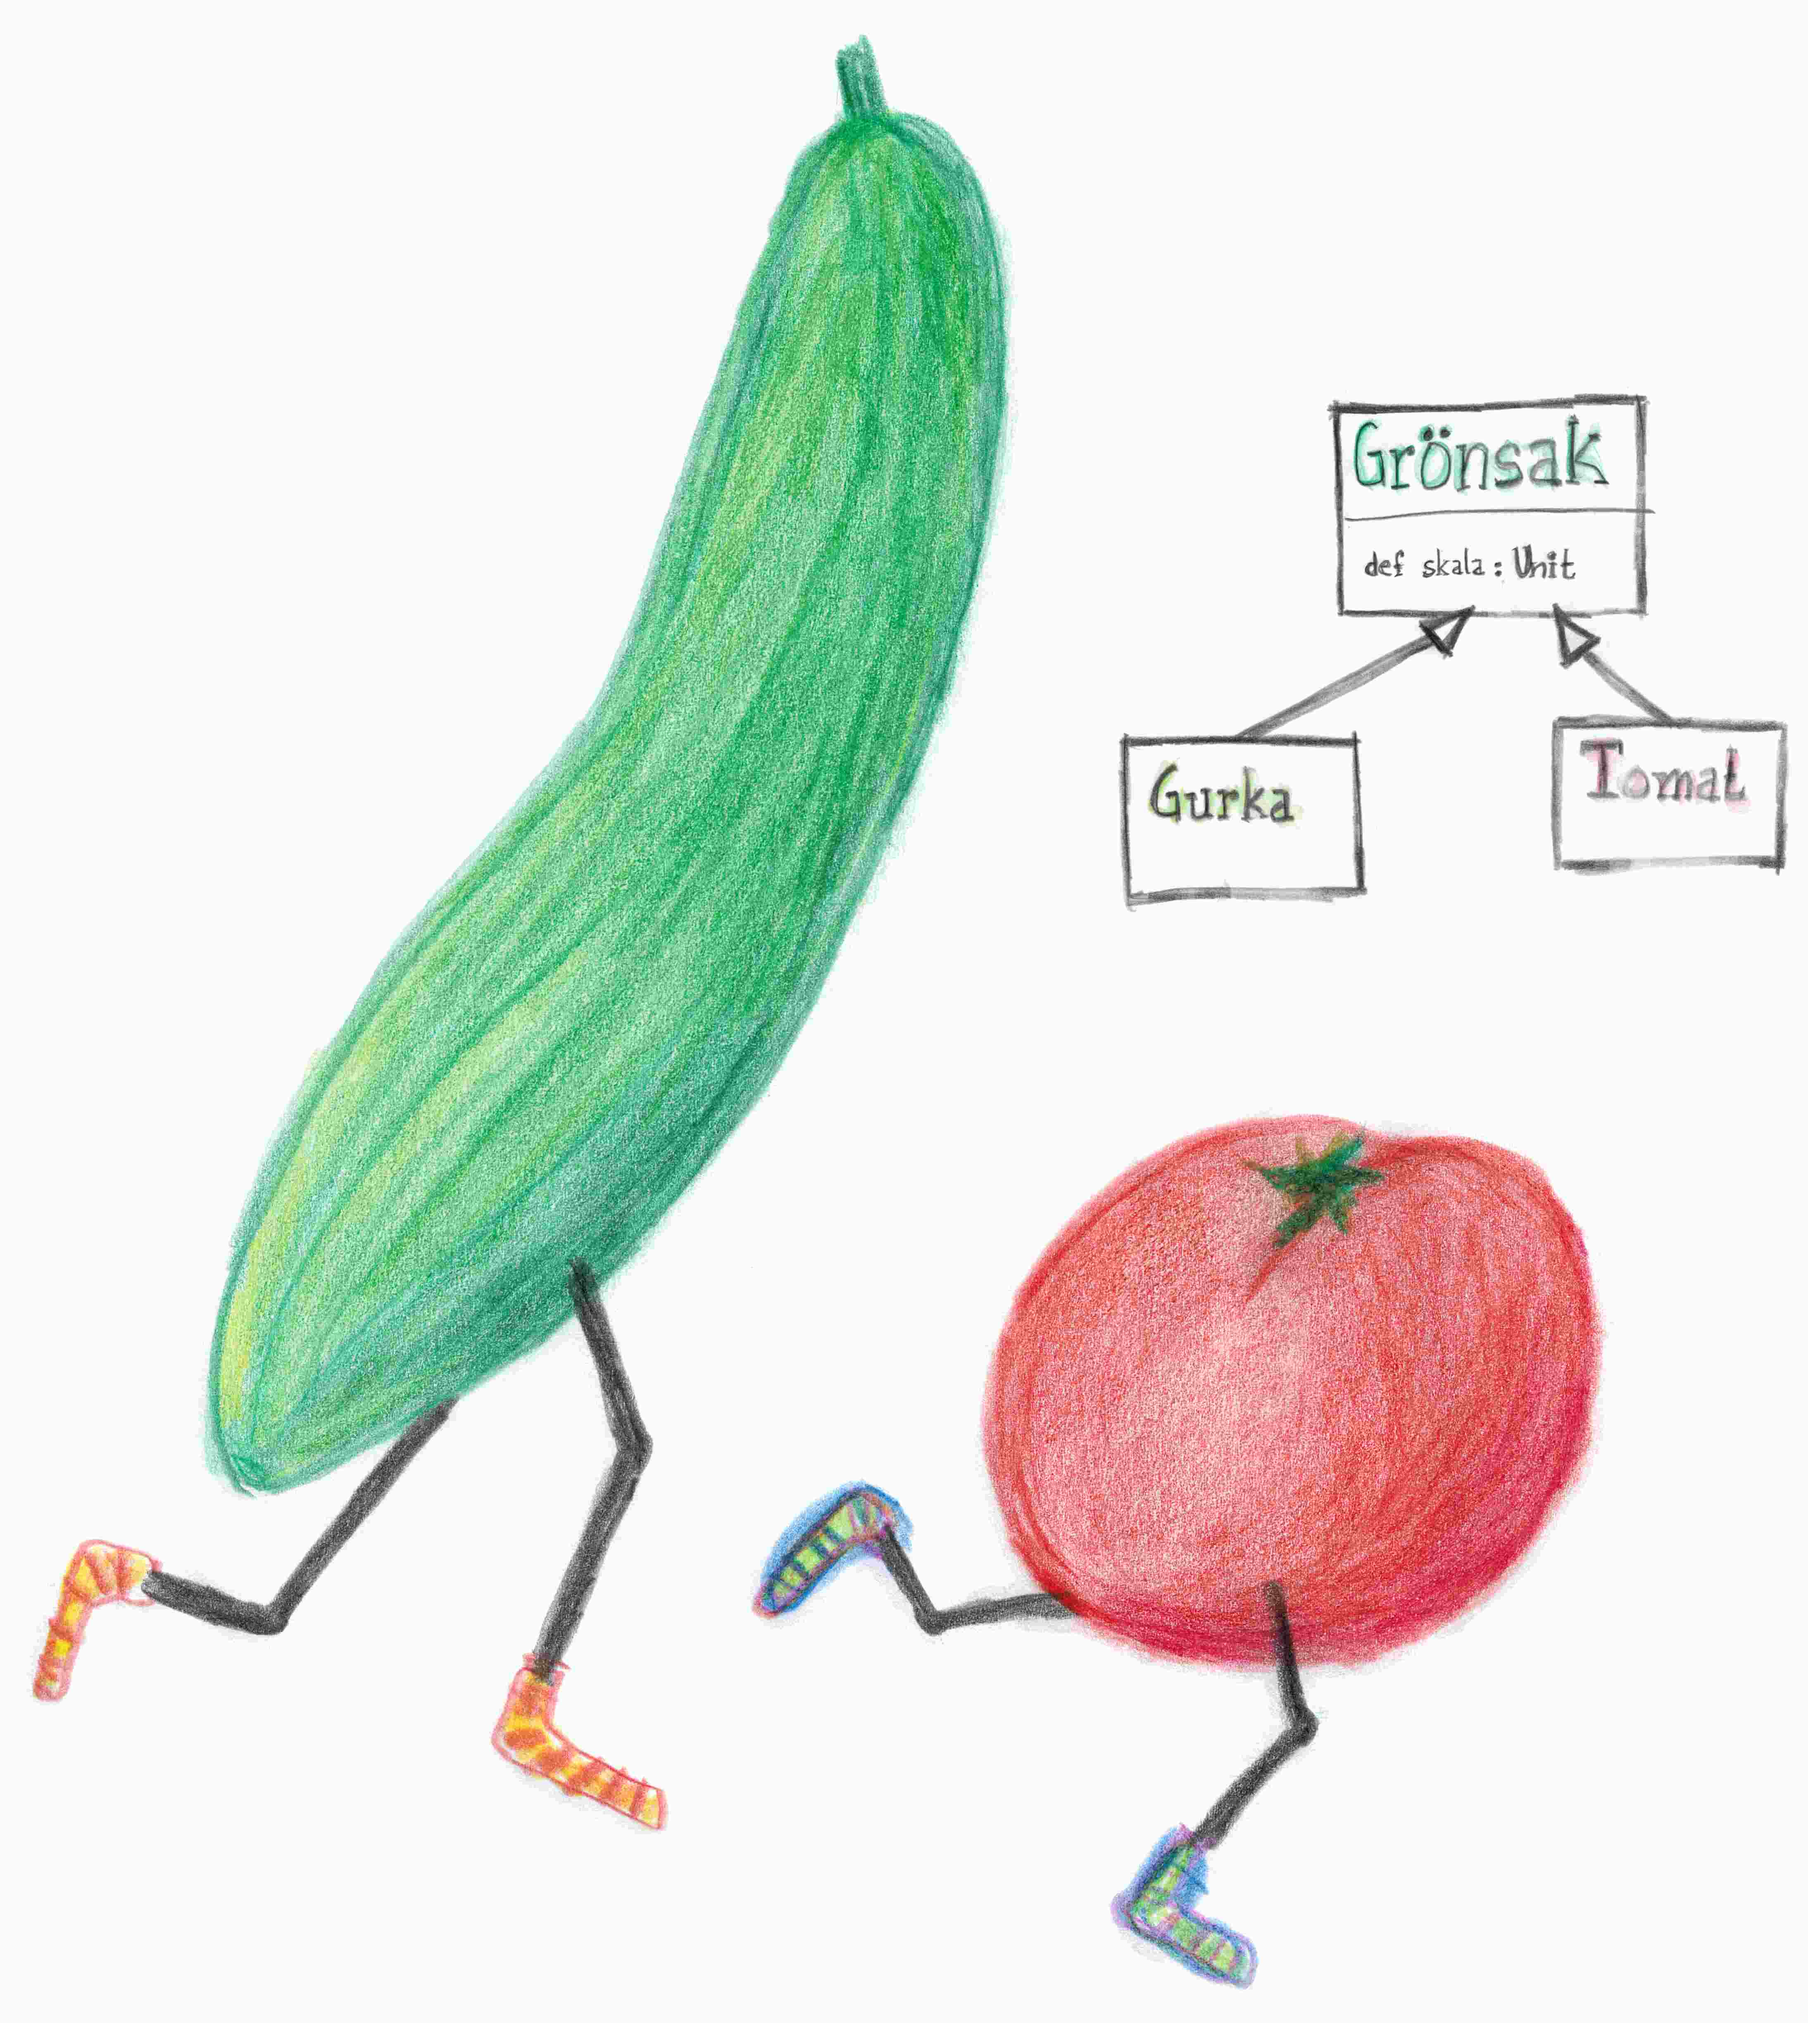
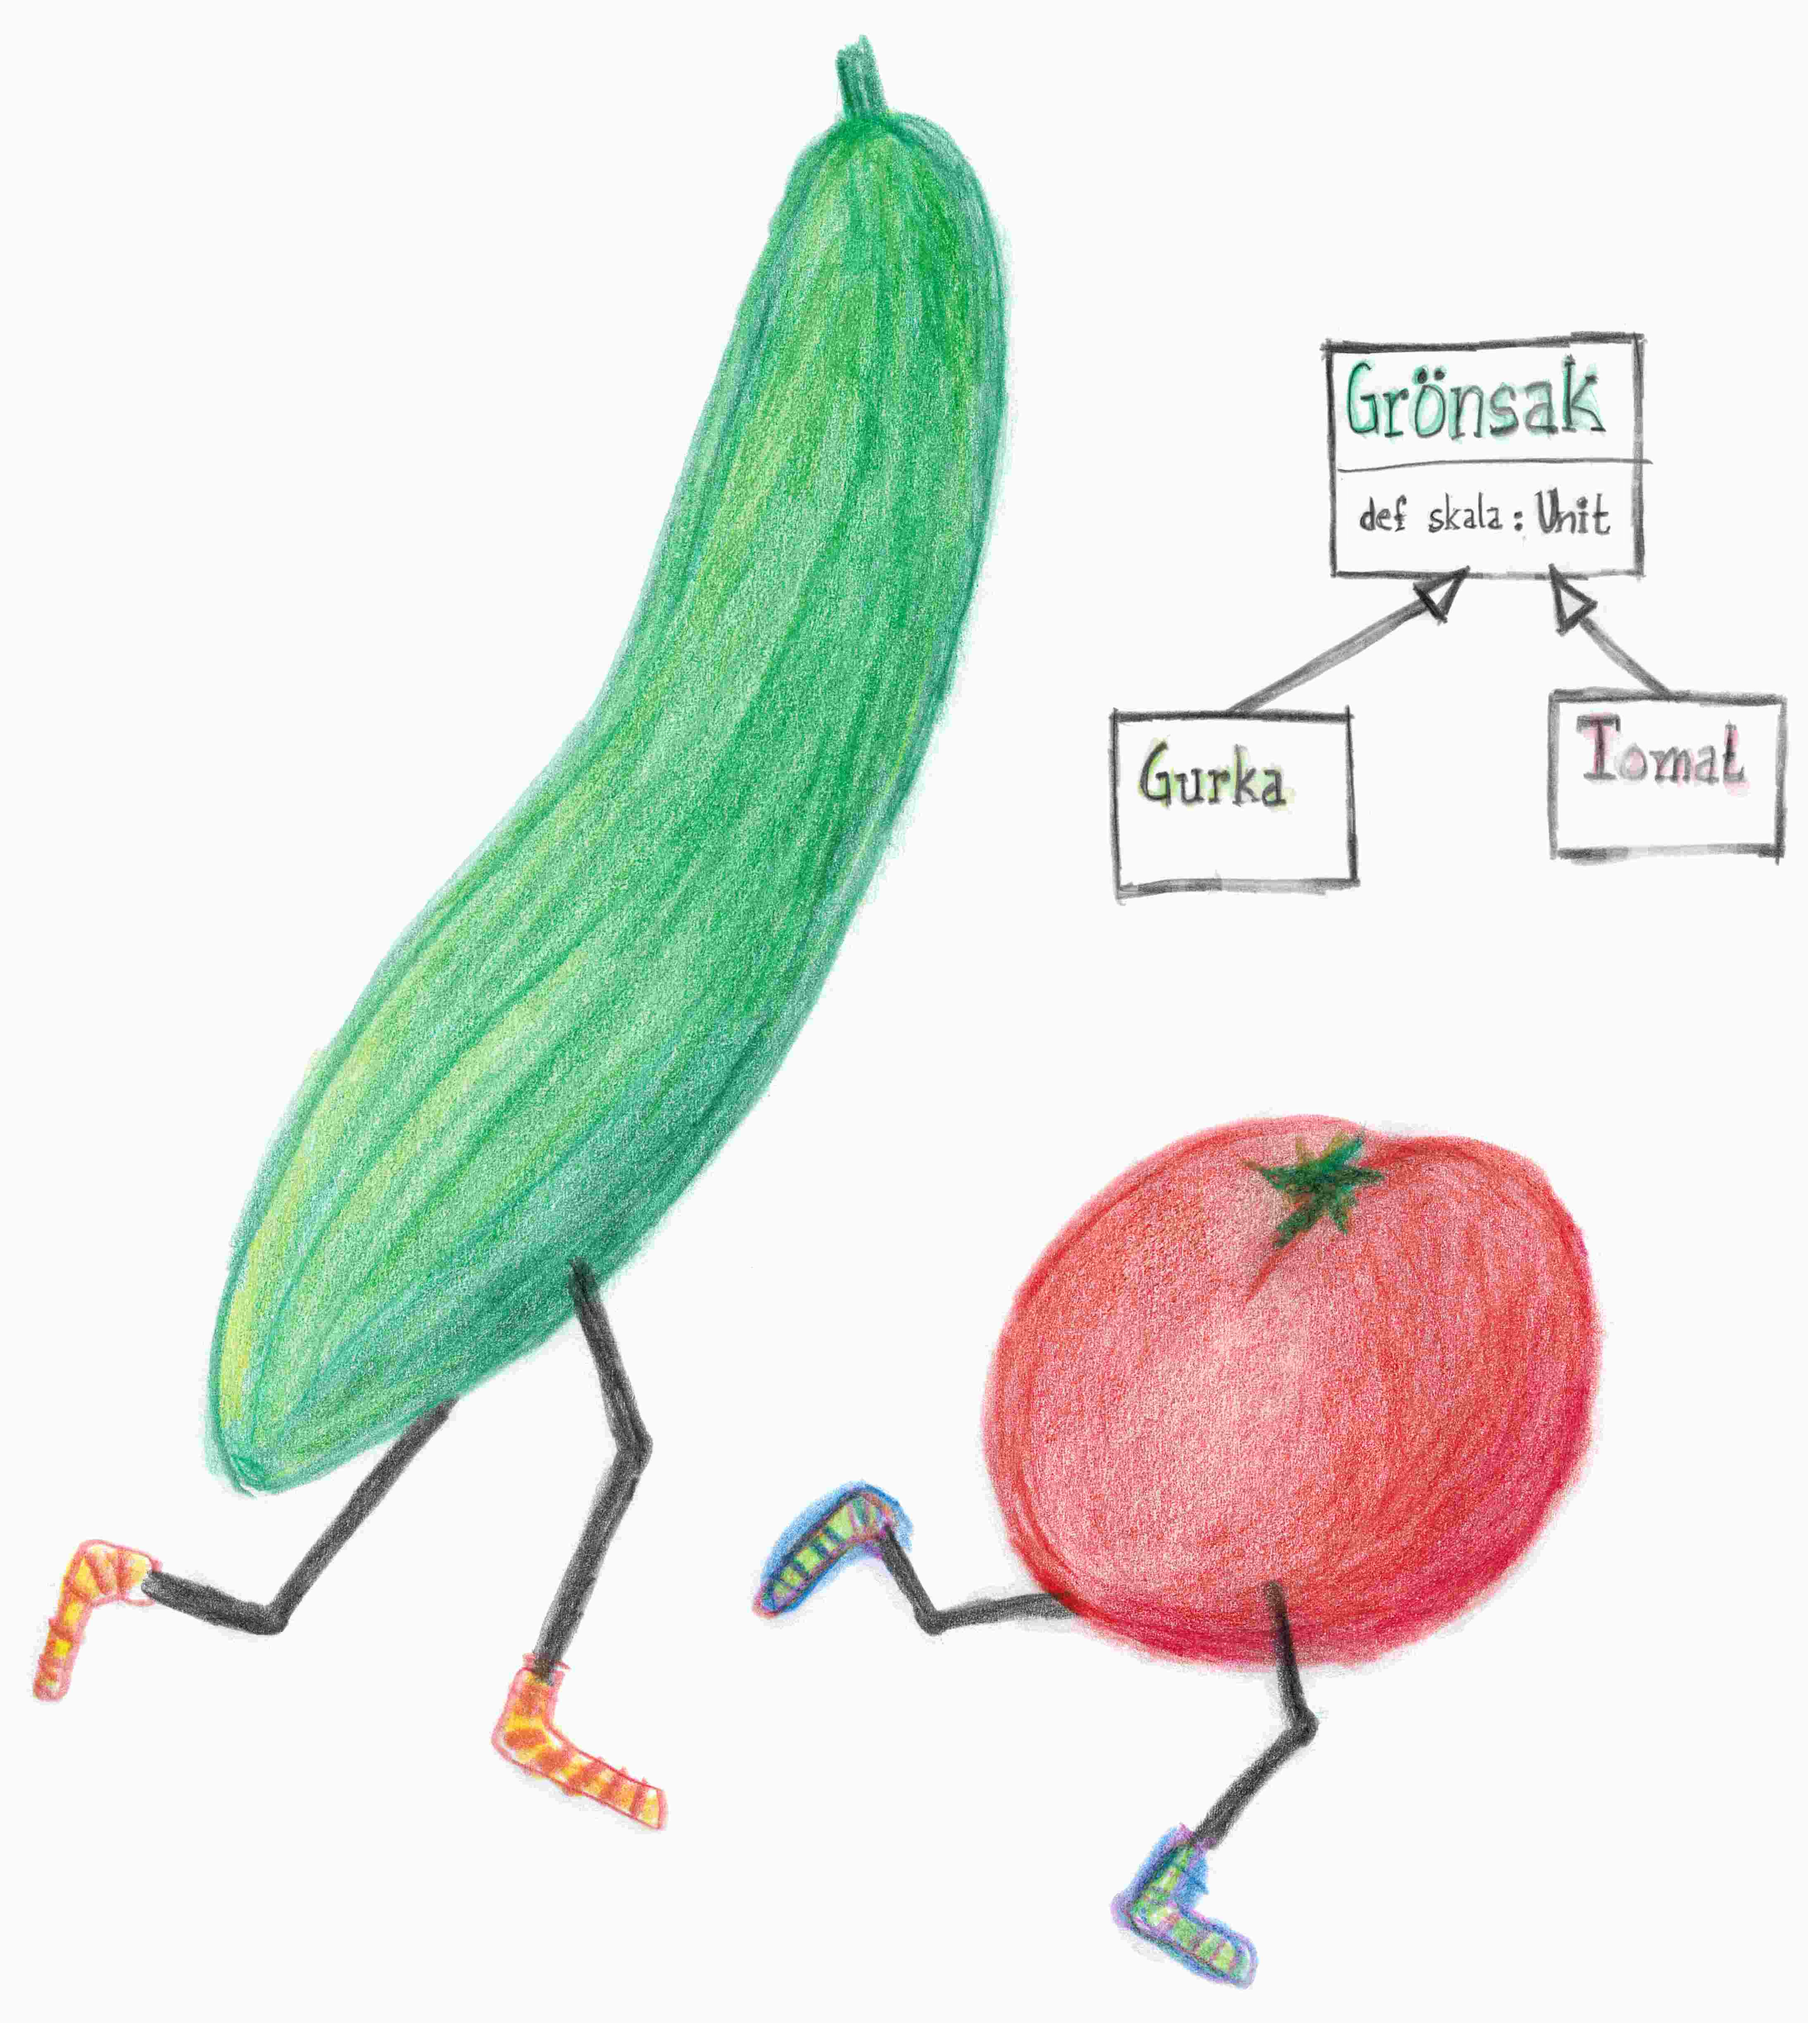
update cover, adjust page size, increase font etc

Changed region(s): [[0.5905, 0.1562, 0.9945, 0.4687]]

diff --git a/compendium/cover/cover-A3.tex b/compendium/cover/cover-A3.tex
@@ -2,10 +2,11 @@
 
 %\usepackage[landscape, centering, showcrop=true]{geometry} %
 \usepackage[
-layoutheight=297mm,layoutwidth=450mm,  %420+thickness
-layoutvoffset=25mm,layouthoffset=30mm,
-paperheight=347mm,paperwidth=510mm,
-margin=30mm,showcrop=true]{geometry}
+%layoutheight=297mm,layoutwidth=450mm,  %420+thickness--here 30mm; estimate n*0.1/2 with 80g papers
+%layoutvoffset=25mm,layouthoffset=30mm,
+%paperheight=347mm,paperwidth=510mm,
+paperheight=320mm,paperwidth=450mm,
+margin=30mm,showcrop=false]{geometry}
 %\usepackage[pdflatex,cam,center,a3,height=35cm,width=47cm]{crop} %
 
 \usepackage[utf8]{inputenc}
@@ -29,6 +30,11 @@ margin=30mm,showcrop=true]{geometry}
 
 \begin{document}
 
+\newcommand{\LeftMarginBack}{1.0}
+\newcommand{\RightMarginFront}{0.1}
+\newcommand{\YPosFront}{-1.5}
+\newcommand{\YPosBack}{0}
+
 \thispagestyle{empty}
 \renewcommand{\familydefault}{\sfdefault}
 \renewcommand{\arraystretch}{1.5}
@@ -37,19 +43,19 @@ margin=30mm,showcrop=true]{geometry}
 
 \begin{tikzpicture}[overlay,remember picture]%[overlay,remember picture]
     \fill[red,fill opacity=0.3] (current page.south west) rectangle (current page.north east);
-    \node[text width=250mm, align=right] (intro) at ($(current page.north east)+(-14.5,-6.5)-(3.0,0)$) {
+    \node[text width=250mm, align=right] (intro) at ($(current page.north east)+(-14.5,-6.5)-(\RightMarginFront,\YPosFront)$) {
        \fontsize{28}{46}\sffamily\selectfont\textbf{Introduktion~~till} 
        };  
        
-    \node[text width=250mm, align=right] (prog) at ($(current page.north east)+(-14.5,-8.5)-(3,0)$) {
+    \node[text width=250mm, align=right] (prog) at ($(current page.north east)+(-14.5,-8.5)-(\RightMarginFront,\YPosFront)$) {
        \fontsize{52}{46}\sffamily\selectfont\textbf{programmering} 
        };        
 
-    \node[text width=250mm, align=right] (prog) at ($(current page.north east)+(-14.5,-24.8)-(3,4)$) {
+    \node[text width=250mm, align=right] (prog) at ($(current page.north east)+(-14.5,-28.8)-(\RightMarginFront,\YPosFront)$) {
        \fontsize{28}{46}\sffamily\selectfont{med~~Scala~~och~~Java} 
        };        
     
-    \node[text width=250mm, align=right] (prog) at ($(current page.north east)+(-14.5,-26.0)-(3,4)$) {
+    \node[text width=250mm, align=right] (prog) at ($(current page.north east)+(-14.5,-30.0)-(\RightMarginFront,\YPosFront)$) {
        \fontsize{18}{46}\sffamily\selectfont\texttt{http://cs.lth.se/pgk} 
        };    
 
@@ -58,26 +64,26 @@ margin=30mm,showcrop=true]{geometry}
     %   }; 
    
 
-    \node[above right] (picture) at ($(current page.south east)+(-16,7.8)-(3,0)$) {\includegraphics[scale=0.75]{gurka.jpg}};
+    \node[above right] (picture) at ($(current page.north east)+(-16,-26.8)-(\RightMarginFront,\YPosFront)$) {\includegraphics[width=140mm]{gurka.jpg}};
     
     
-\node[above right] (logo) at ($(current page.west)+(19.0,-20.3)+(4,-0.5)$) {\includegraphics[scale=0.54]{logoLUeng}};
+\node[above right] (logo) at ($(current page.west)+(19.0,-21.8)+(2.5,0.5)$) {\includegraphics[scale=0.54]{logoLUeng}};
 
     
         
-\node[anchor=north,rotate=-90, align=left] (back) at ($(current page.north)+(0.0,-11.8)+(0,-2.5)$) {
-\fontsize{14}{20}\sffamily\selectfont\textbf{Introduktion till programmering med Scala och Java} \hspace{3.4cm}\texttt{http://cs.lth.se/pgk}};
+\node[anchor=north,rotate=-90, align=left] (back) at ($(current page.north)+(0.0,-11.8)+(0,-3.0)$) {
+\fontsize{18}{20}\sffamily\selectfont\textbf{Introduktion till programmering med Scala och Java} \hspace{2.0cm}\texttt{http://cs.lth.se/pgk}};
 
-\node[anchor=north] (back) at ($(current page.north)+(-0.4,-15.0)+(0,-2.5)$) {
+\node[anchor=north] (back) at ($(current page.north)+(-0.4,-15.0)+(0,-4.3)$) {
 \fontsize{16}{20}\sffamily\selectfont {\YEAR}};
 
-\newcommand{\LeftMarginBack}{1.8}
 
-\node[above right, scale=1.3] (modulplan) at ($(current page.west)+(\LeftMarginBack,-11.0)+(2.5,0)$) {
+
+\node[above right, scale=1.3] (modulplan) at ($(current page.west)+(\LeftMarginBack,-11.5)+(1.0,\YPosBack)$) {
 \sffamily\input{../../plan/overview-generated.tex} 
 };
 
-\node[above right, text width=15cm,align=left] (collection-traits) at ($(current page.west)+(\LeftMarginBack,4.5)+(2.5,0)$) {
+\node[above right, text width=15cm,align=left] (collection-traits) at ($(current page.west)+(\LeftMarginBack,3.8)+(1.0,\YPosBack)$) {
 \begin{minipage}{1.0\textwidth}\sffamily\large 
 Detta kompendium är kurslitteratur i grundkursen i programmering på Datateknikprogrammet vid Lunds tekniska högskola.
 
@@ -97,7 +103,7 @@ Välkommen till datavetenskapens fascinerande värld!
 \end{minipage}
 };
 
-\node[above right, scale=1.3] (modulplan) at ($(current page.west)+(\LeftMarginBack,-13.5)+(2.5,0)$) {
+\node[above right, scale=1.3] (modulplan) at ($(current page.west)+(\LeftMarginBack,-13.5)+(1.0,\YPosBack)$) {
 \begin{minipage}{0.33\textwidth}
 cs.lth.se/pgk\\Datavetenskap, LTH, Lunds universitet, licens: CC-BY-SA, upplaga \YEAR. 
 \end{minipage}
